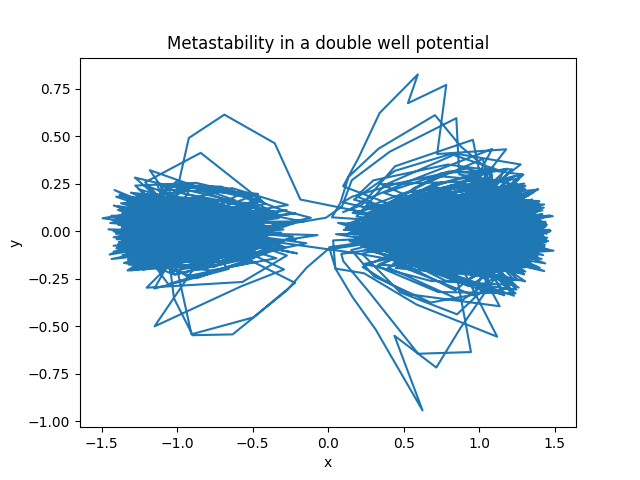
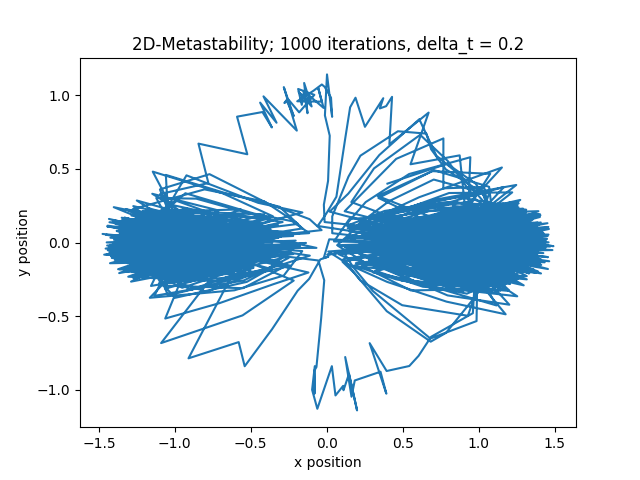
Final commit; implementing graphs, testing them and simulation getting results as expected.

diff --git a/src/abf.py b/src/abf.py
@@ -67,16 +67,6 @@ class AdaptiveBiasingForce(object):
         """
         if self.dim == 2:
             x1, x2 = x
-
-            # partial_x = 1/6 * (-16 * (1 - x1**2 - x2**2) * x1 
-            #                    + 8 * x1 * (x1 ** 2 - 2) 
-            #                    + 4 * (x1 + x2) * ((x1 + x2)**2 - 1) 
-            #                    + 4 * (x1 - x2) * ((x1 - x2)**2 - 1) 
-            # )
-            # partial_y = 1/6 * (-16 * (1 - x1**2 - x2**2) * x2  
-            #                    + 4 * (x1 + x2) * ((x1 + x2)**2 - 1) 
-            #                    - 4 * (x1 - x2) * ((x1 - x2)**2 - 1) 
-            # )
             
             partial_x = 4/3*x1*(4*x1**2 + 5*x2**2 -5)
             partial_y = 4/3*x2*(5*x1**2 + 3*x2**2 -3)
@@ -129,6 +119,11 @@ class AdaptiveBiasingForce(object):
         for l in range(u):
             if z[l] <= self.reac_coord(self.paths[i]) < z[l+1]:
                 return l
+        if self.reac_coord(self.paths[i]) < z[0]:
+            return 0
+        elif z[-1] < self.reac_coord(self.paths[i]):
+            return len(z) - 1
+        
         raise Exception(f"_select_zl: no value found; z={z},q={self.reac_coord(self.paths[i])}")
         
     def run(self, N, T, n, m, u):
@@ -156,7 +151,7 @@ class AdaptiveBiasingForce(object):
               for i in range(u+1)]
     
         # incremented by 1 = +Ds in time and by (b-a)/u in space
-        gamma = np.ones(m_hat) * self.f(self.init_cond)
+        gamma = np.ones(u+1) * self.f(self.init_cond)
         gamma_history = [[] for _ in range(m_hat)] 
         
         # run ABF
@@ -164,10 +159,15 @@ class AdaptiveBiasingForce(object):
             N_in = np.zeros(u)  
             for j in range(m):
                 for i in range(1, N):
-                    z_ijk = self._select_zl(i, k, j, u, m, z)
-                    new_val = self.paths[i-1] - self.grad_potential(self.paths[i-1])*Dt + np.array([gamma[z_ijk-1], 0]) * Dt + math.sqrt(Dt) * np.random.normal(0, 1, size=2)
+                    try:
+                        z_ijk = self._select_zl(i, k, j, u, m, z)
+                        extra_term = np.array([gamma[z_ijk-1], 0]) * Dt
+                    except:
+                        extra_term = np.array([0,0])
+
+                    new_val = self.paths[i-1] - self.grad_potential(self.paths[i-1])*Dt + extra_term + math.sqrt(Dt) * np.random.normal(0, 1, size=2)
                     logging.warning(f"new_val={new_val}")
-                    
+
                     # extend path
                     self.paths_history[i-1].append(new_val)
                     self.paths[i-1] = new_val
@@ -175,9 +175,11 @@ class AdaptiveBiasingForce(object):
             for l in range(u):
                 # counting
                 for n_path in range(N):
-                    n_bin = int((self.paths[n_path][0] 
-                            - self.l_bound) - l * (self.h_bound - self.l_bound)/u)
-                    
+                    try:
+                        n_bin = int((self.paths[n_path][0] - self.l_bound) - l * (self.h_bound - self.l_bound)/u)
+                    except:
+                        n_bin = 0
+                        
                     if n_bin == 0:
                         N_in[l] += 1  
                     
@@ -192,7 +194,7 @@ class AdaptiveBiasingForce(object):
         return self.paths   
     
     def plot(self, interval=1.4, dim=2, plot_pot=False, plot_grad=False, 
-             plot_dynamics=True, plot_dynamics2=True):
+             plot_dynamics=True):
         # plot grad 2D
         if plot_pot == True:
             x = np.linspace(-interval, interval, 30)
@@ -228,6 +230,8 @@ class AdaptiveBiasingForce(object):
             ax.set_ylabel('y')
             ax.set_ylabel('z')
             plt.title("Gradient of the potential in 2D")
+            plt.xlabel("x position")
+            plt.ylabel("y position")
 
             plt.show()
         
@@ -235,39 +239,34 @@ class AdaptiveBiasingForce(object):
         if plot_dynamics == True:
             start_pos = [0.1, 0.1]
             iterations = 1000
-            logging.warning(f"plot2d: simulation of {iterations} time steps about to start. This might take up to minute.")
+            end_time = 500
+            logging.warning(f"plot2d: simulation of {iterations} time steps about to start. This might take up to a minute.")
             time.sleep(2)
-            obj.run(N=10, T=10, n=10000, m=100, u=5)
+            obj.run(N=10, T=end_time, n=iterations, m=1, u=1000)
             
             def get_path(i):
                 return zip(*self.paths_history[i])
 
-            for i in range(10):
+            for i in range(len(self.paths_history) - 1):
                 x,y = get_path(i)
                 plt.plot(x,y)
-                plt.title(f"Metastability for particle 2D using the RBF method")
+                plt.title(f"2D RBF method in 2D; {iterations} iterations, delta_t = {end_time/iterations}")
+                plt.xlabel("x position")
+                plt.ylabel("y position")
                 plt.show()
                 
-        # plot dynamics projected
-        if plot_dynamics2 == True:
-            start_pos = [0.1, 0.1]
-            iterations = 10000
-            logging.warning(f"plot2d: simulation of {iterations} time steps about to start. This might take up to minute.")
-            time.sleep(2)
-            dyn = obj.run(N=10, T=10, n=iterations, m=10, u=1000)
-            
-            def get_path(i):
-                return zip(*self.paths_history[i])
-            
-            for i in range(10):
+            # plot dynamics projected
+            for i in range(len(self.paths_history) - 1):
                 x1, x2 = get_path(i)
-                plt.plot(range(10000), x1)
-                plt.title(f"Metastability for particle in projected on the x-axis using the RBF method")
+                t = np.array(range(iterations)) /iterations * end_time
+                plt.plot(t, x1)
+                plt.title(f"2D RBF method projected on the x-axis; {iterations} iterations")
+                plt.xlabel("Time")
+                plt.ylabel("x-position")
                 plt.show()
     
     
 if __name__ == "__main__":
     obj = AdaptiveBiasingForce(init_cond=[0.5, 0], l_bound=-3000, h_bound=3000)
-    obj.plot(plot_dynamics=False)
-    # print(obj.run(N=10, T=10, n=10000, m=100, u=5)
+    obj.plot(plot_dynamics=True)
     

diff --git a/src/metastability.py b/src/metastability.py
@@ -81,8 +81,8 @@ class DoubleWellDynamics(object):
             x = x_previous - self.grad_potential(dim, x_previous) * time_increment + cste * np.random.normal(0, math.sqrt(time_increment), size=dim)
             t += time_increment
 
-            logging.debug(f"x: {x}")
-            logging.debug(f"grad: {self.grad_potential(dim, x)}")
+            logging.warning(f"x: {x}")
+            logging.warning(f"grad: {self.grad_potential(dim, x)}")
 
             if dim == 2:
                 self.x.append((t, list(x)))
@@ -167,27 +167,24 @@ class DoubleWellDynamics(object):
         if plot_dynamics == True:
             start_pos = [0.1, 0.1]
             iterations = 1000
+            delta_t = 0.1
             logging.warning(f"plot2d: simulation of {iterations} time steps about to start. This might take up to minute.")
             time.sleep(2)
-            dyn = obj.run(start_pos, iterations, time_increment=0.2)
+            dyn = obj.run(start_pos, iterations, time_increment=delta_t)
             dyn = [i[1] for i in dyn]
             x, y = zip(*dyn)
             plt.plot(x,y)
-            plt.title(f"Metastability for particle 2D")
+            plt.title(f"2D-Metastability; {iterations} iterations, delta_t = {delta_t}")
+            plt.xlabel("x position")
+            plt.ylabel("y position")
             plt.show()
         
-        # plot metastable behaviour
-        if plot_dynamics2 == True:
-            start_pos = [0.1, 0.1]
-            iterations = 1000
-            logging.warning(f"plot2d: simulation of {iterations} time steps about to start. This might take up to minute.")
-            time.sleep(2)
-            dyn = obj.run(start_pos, iterations, time_increment=0.2)
-            dyn = [i[1][0] for i in dyn]
-            x = iterations * 0.2 * np.array(range(1, len(dyn)+1))
-
-            plt.plot(x, dyn)
-            plt.title(f"Metastability for particle in projected on the x-axis")
+            # plot metastable behaviour
+            t = delta_t * np.array(range(1, len(dyn)+1))
+            plt.plot(t, x)
+            plt.title(f"Dynamics projected on the x-axis; {iterations} iterations, delta_t = {delta_t}")
+            plt.xlabel("time")
+            plt.xlabel("x-position")
             plt.show()
 
 if __name__ == "__main__":
@@ -195,4 +192,3 @@ if __name__ == "__main__":
     obj = DoubleWellDynamics()
     obj.plot_1d(1.2, plot_pot=True, plot_grad=True)
     obj.plot_2d(1.2, plot_pot=True, plot_grad=True)
-
